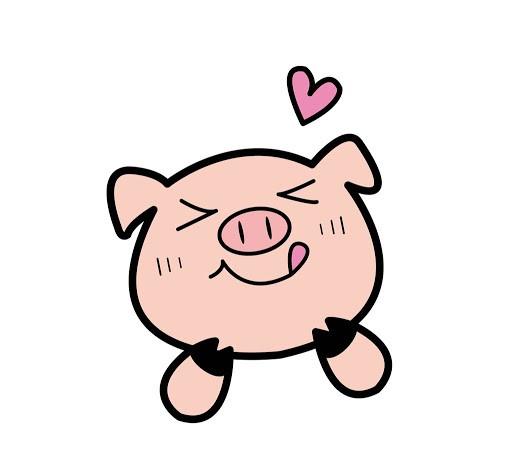
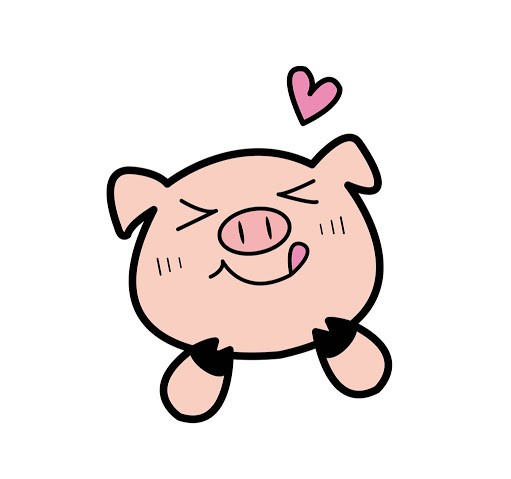
Site updated: 2020-05-10 14:37:05

Changed region(s): [[0.2055, 0.2698, 0.7926, 0.9293], [0.5577, 0.1199, 0.6751, 0.2698], [0.6164, 0.4497, 0.6751, 0.5096]]

diff --git a/2020/05/03/hello-world/index.html b/2020/05/03/hello-world/index.html
@@ -8,7 +8,7 @@
   <meta name="viewport" content="width=device-width, initial-scale=1" />
 
   
-  <link rel="shortcut icon" href="/images/unnamed.png" />
+  <link rel="shortcut icon" href="/source/pig.jpg" />
   
 
   
@@ -22,7 +22,7 @@
 
 <body>
   <div class="title">
-  <img class="title_img" src="https://tsai-chia.github.io/images/unnamed.png"/><br>
+  <img class="title_img" src="https://tsai-chia.github.io/images/unnamed.jpg"/><br>
   <p id="site_title">&nbspBUG管理&nbsp</p>
 </div>
 

diff --git a/2020/05/09/第一篇文章-1/index.html b/2020/05/09/第一篇文章-1/index.html
@@ -8,7 +8,7 @@
   <meta name="viewport" content="width=device-width, initial-scale=1" />
 
   
-  <link rel="shortcut icon" href="/images/unnamed.png" />
+  <link rel="shortcut icon" href="/source/pig.jpg" />
   
 
   
@@ -22,7 +22,7 @@
 
 <body>
   <div class="title">
-  <img class="title_img" src="https://tsai-chia.github.io/images/unnamed.png"/><br>
+  <img class="title_img" src="https://tsai-chia.github.io/images/unnamed.jpg"/><br>
   <p id="site_title">&nbspBUG管理&nbsp</p>
 </div>
 

diff --git a/archives/2020/05/index.html b/archives/2020/05/index.html
@@ -8,7 +8,7 @@
   <meta name="viewport" content="width=device-width, initial-scale=1" />
 
   
-  <link rel="shortcut icon" href="/images/unnamed.png" />
+  <link rel="shortcut icon" href="/source/pig.jpg" />
   
 
   
@@ -22,7 +22,7 @@
 
 <body>
   <div class="title">
-  <img class="title_img" src="https://tsai-chia.github.io/images/unnamed.png"/><br>
+  <img class="title_img" src="https://tsai-chia.github.io/images/unnamed.jpg"/><br>
   <p id="site_title">&nbspBUG管理&nbsp</p>
 </div>
 

diff --git a/archives/2020/index.html b/archives/2020/index.html
@@ -8,7 +8,7 @@
   <meta name="viewport" content="width=device-width, initial-scale=1" />
 
   
-  <link rel="shortcut icon" href="/images/unnamed.png" />
+  <link rel="shortcut icon" href="/source/pig.jpg" />
   
 
   
@@ -22,7 +22,7 @@
 
 <body>
   <div class="title">
-  <img class="title_img" src="https://tsai-chia.github.io/images/unnamed.png"/><br>
+  <img class="title_img" src="https://tsai-chia.github.io/images/unnamed.jpg"/><br>
   <p id="site_title">&nbspBUG管理&nbsp</p>
 </div>
 

diff --git a/archives/index.html b/archives/index.html
@@ -8,7 +8,7 @@
   <meta name="viewport" content="width=device-width, initial-scale=1" />
 
   
-  <link rel="shortcut icon" href="/images/unnamed.png" />
+  <link rel="shortcut icon" href="/source/pig.jpg" />
   
 
   
@@ -22,7 +22,7 @@
 
 <body>
   <div class="title">
-  <img class="title_img" src="https://tsai-chia.github.io/images/unnamed.png"/><br>
+  <img class="title_img" src="https://tsai-chia.github.io/images/unnamed.jpg"/><br>
   <p id="site_title">&nbspBUG管理&nbsp</p>
 </div>
 

diff --git a/index.html b/index.html
@@ -8,7 +8,7 @@
   <meta name="viewport" content="width=device-width, initial-scale=1" />
 
   
-  <link rel="shortcut icon" href="/images/unnamed.png" />
+  <link rel="shortcut icon" href="/source/pig.jpg" />
   
 
   
@@ -22,7 +22,7 @@
 
 <body>
   <div class="title">
-  <img class="title_img" src="https://tsai-chia.github.io/images/unnamed.png"/><br>
+  <img class="title_img" src="https://tsai-chia.github.io/images/unnamed.jpg"/><br>
   <p id="site_title">&nbspBUG管理&nbsp</p>
 </div>
 
